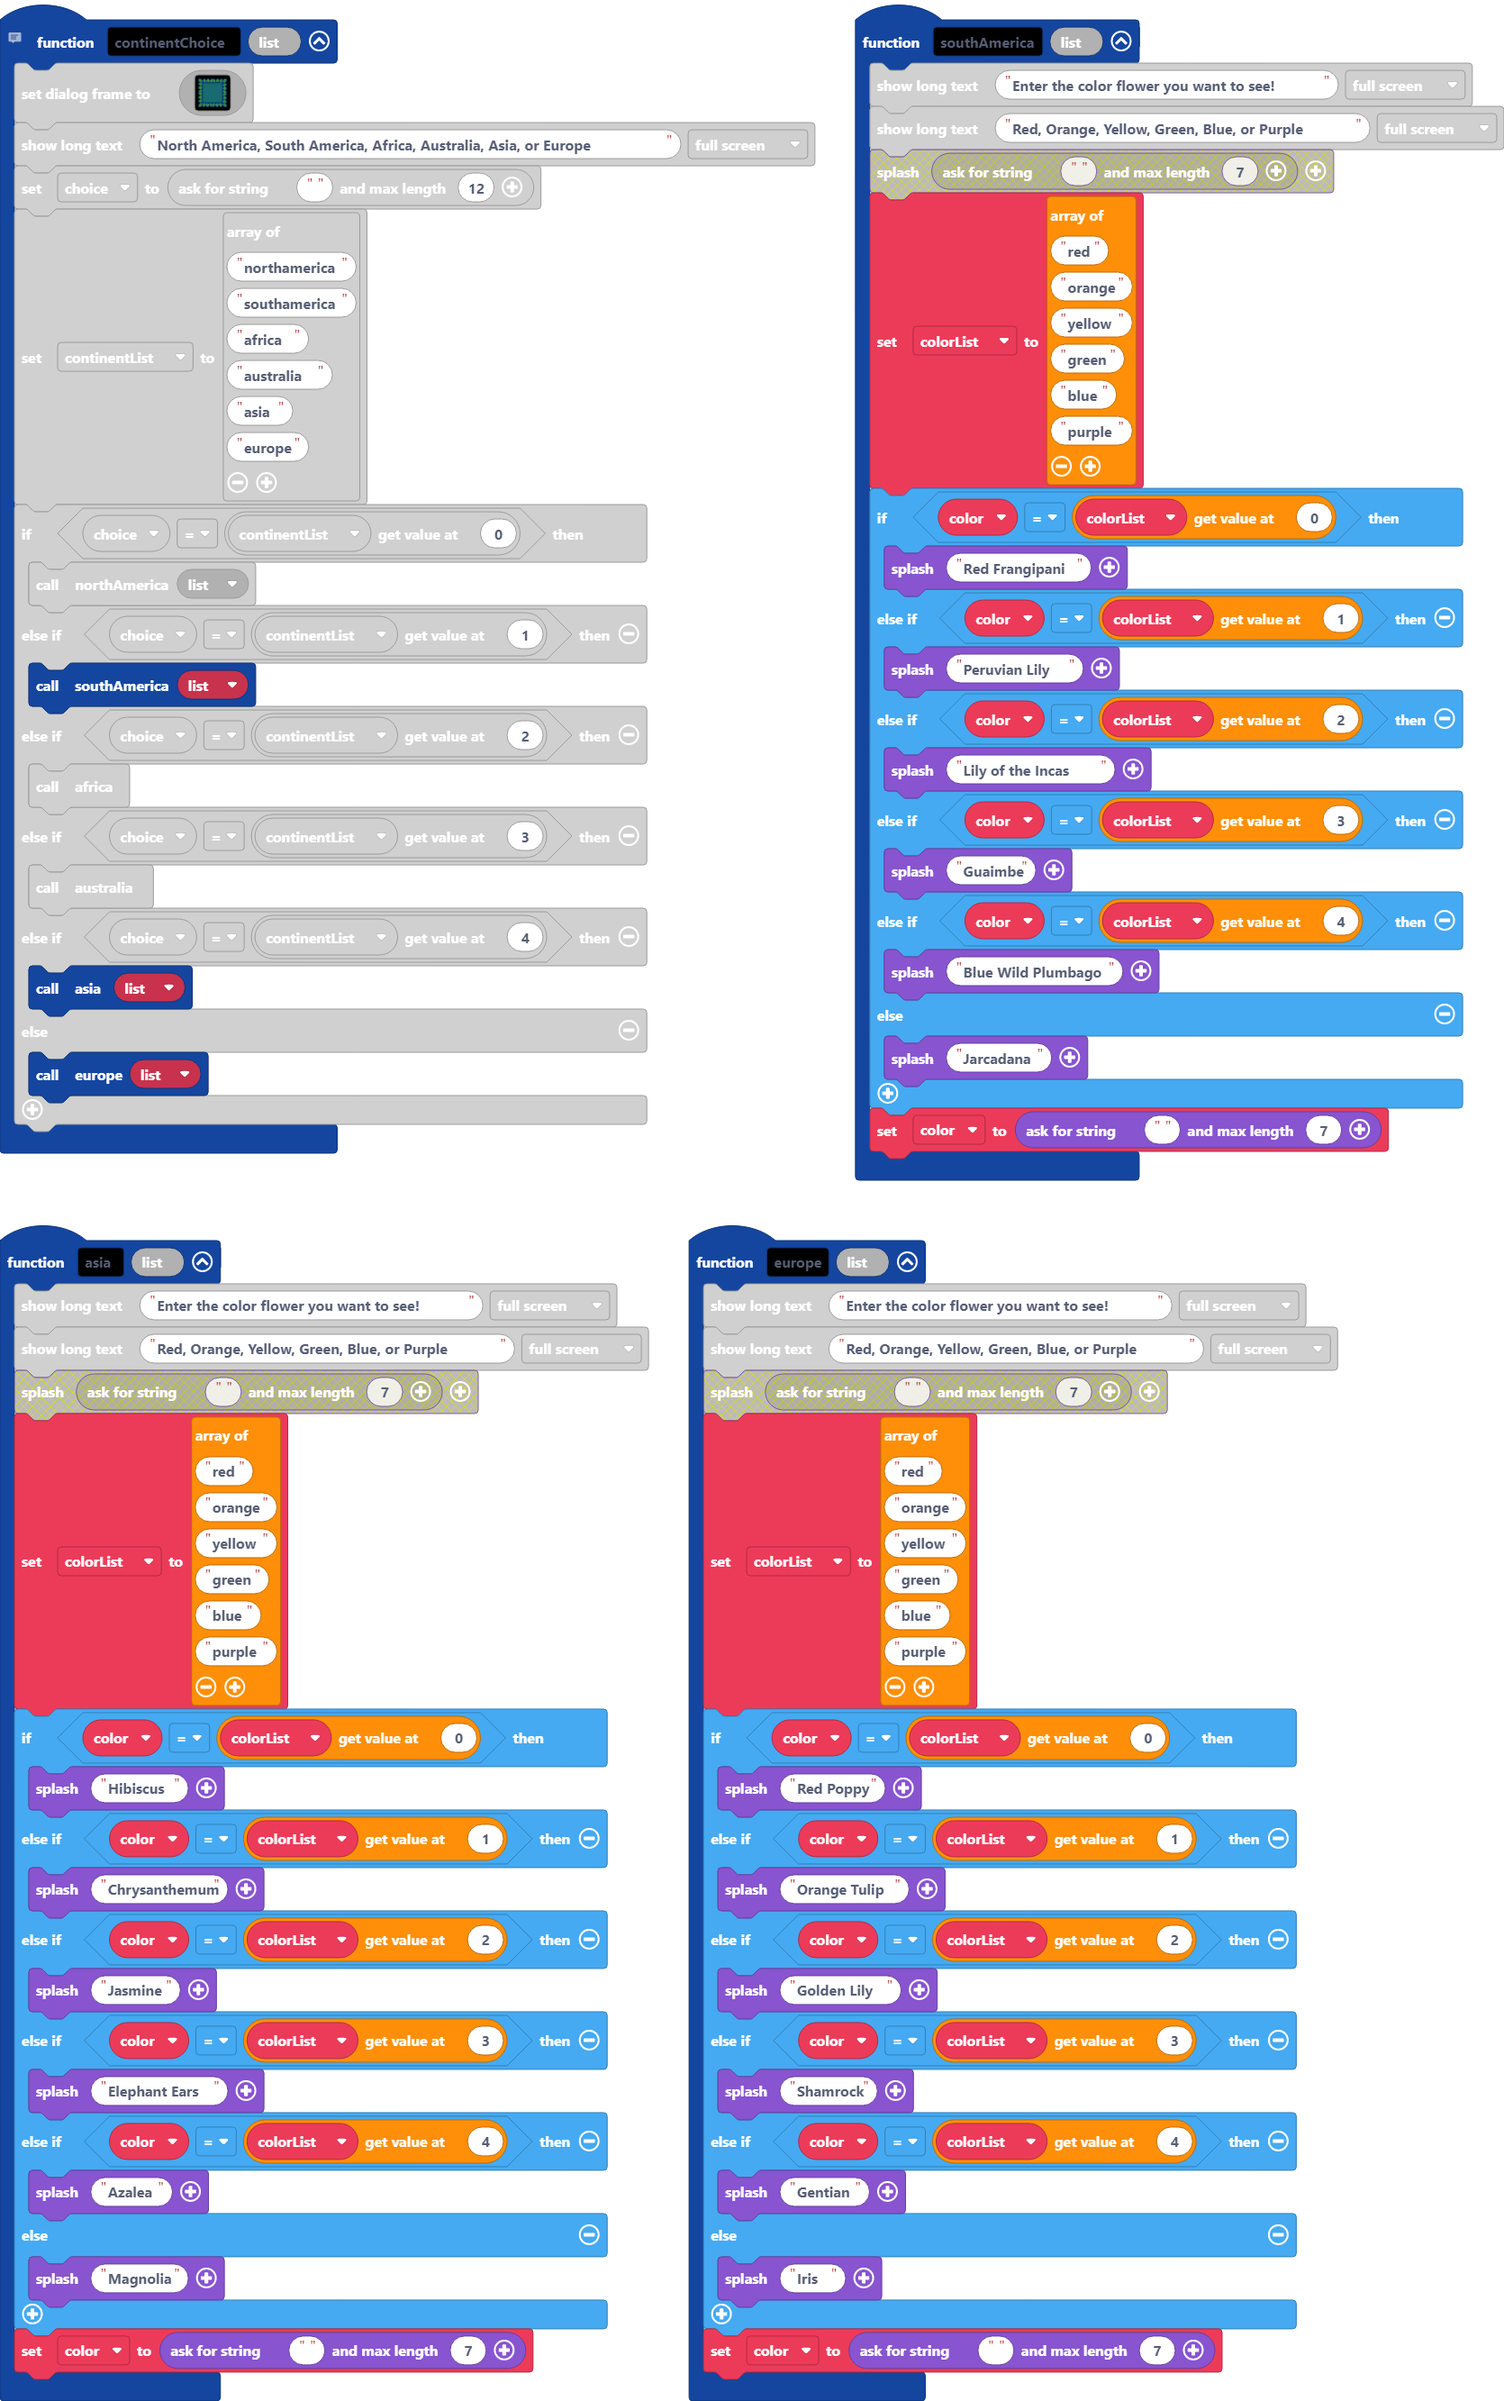
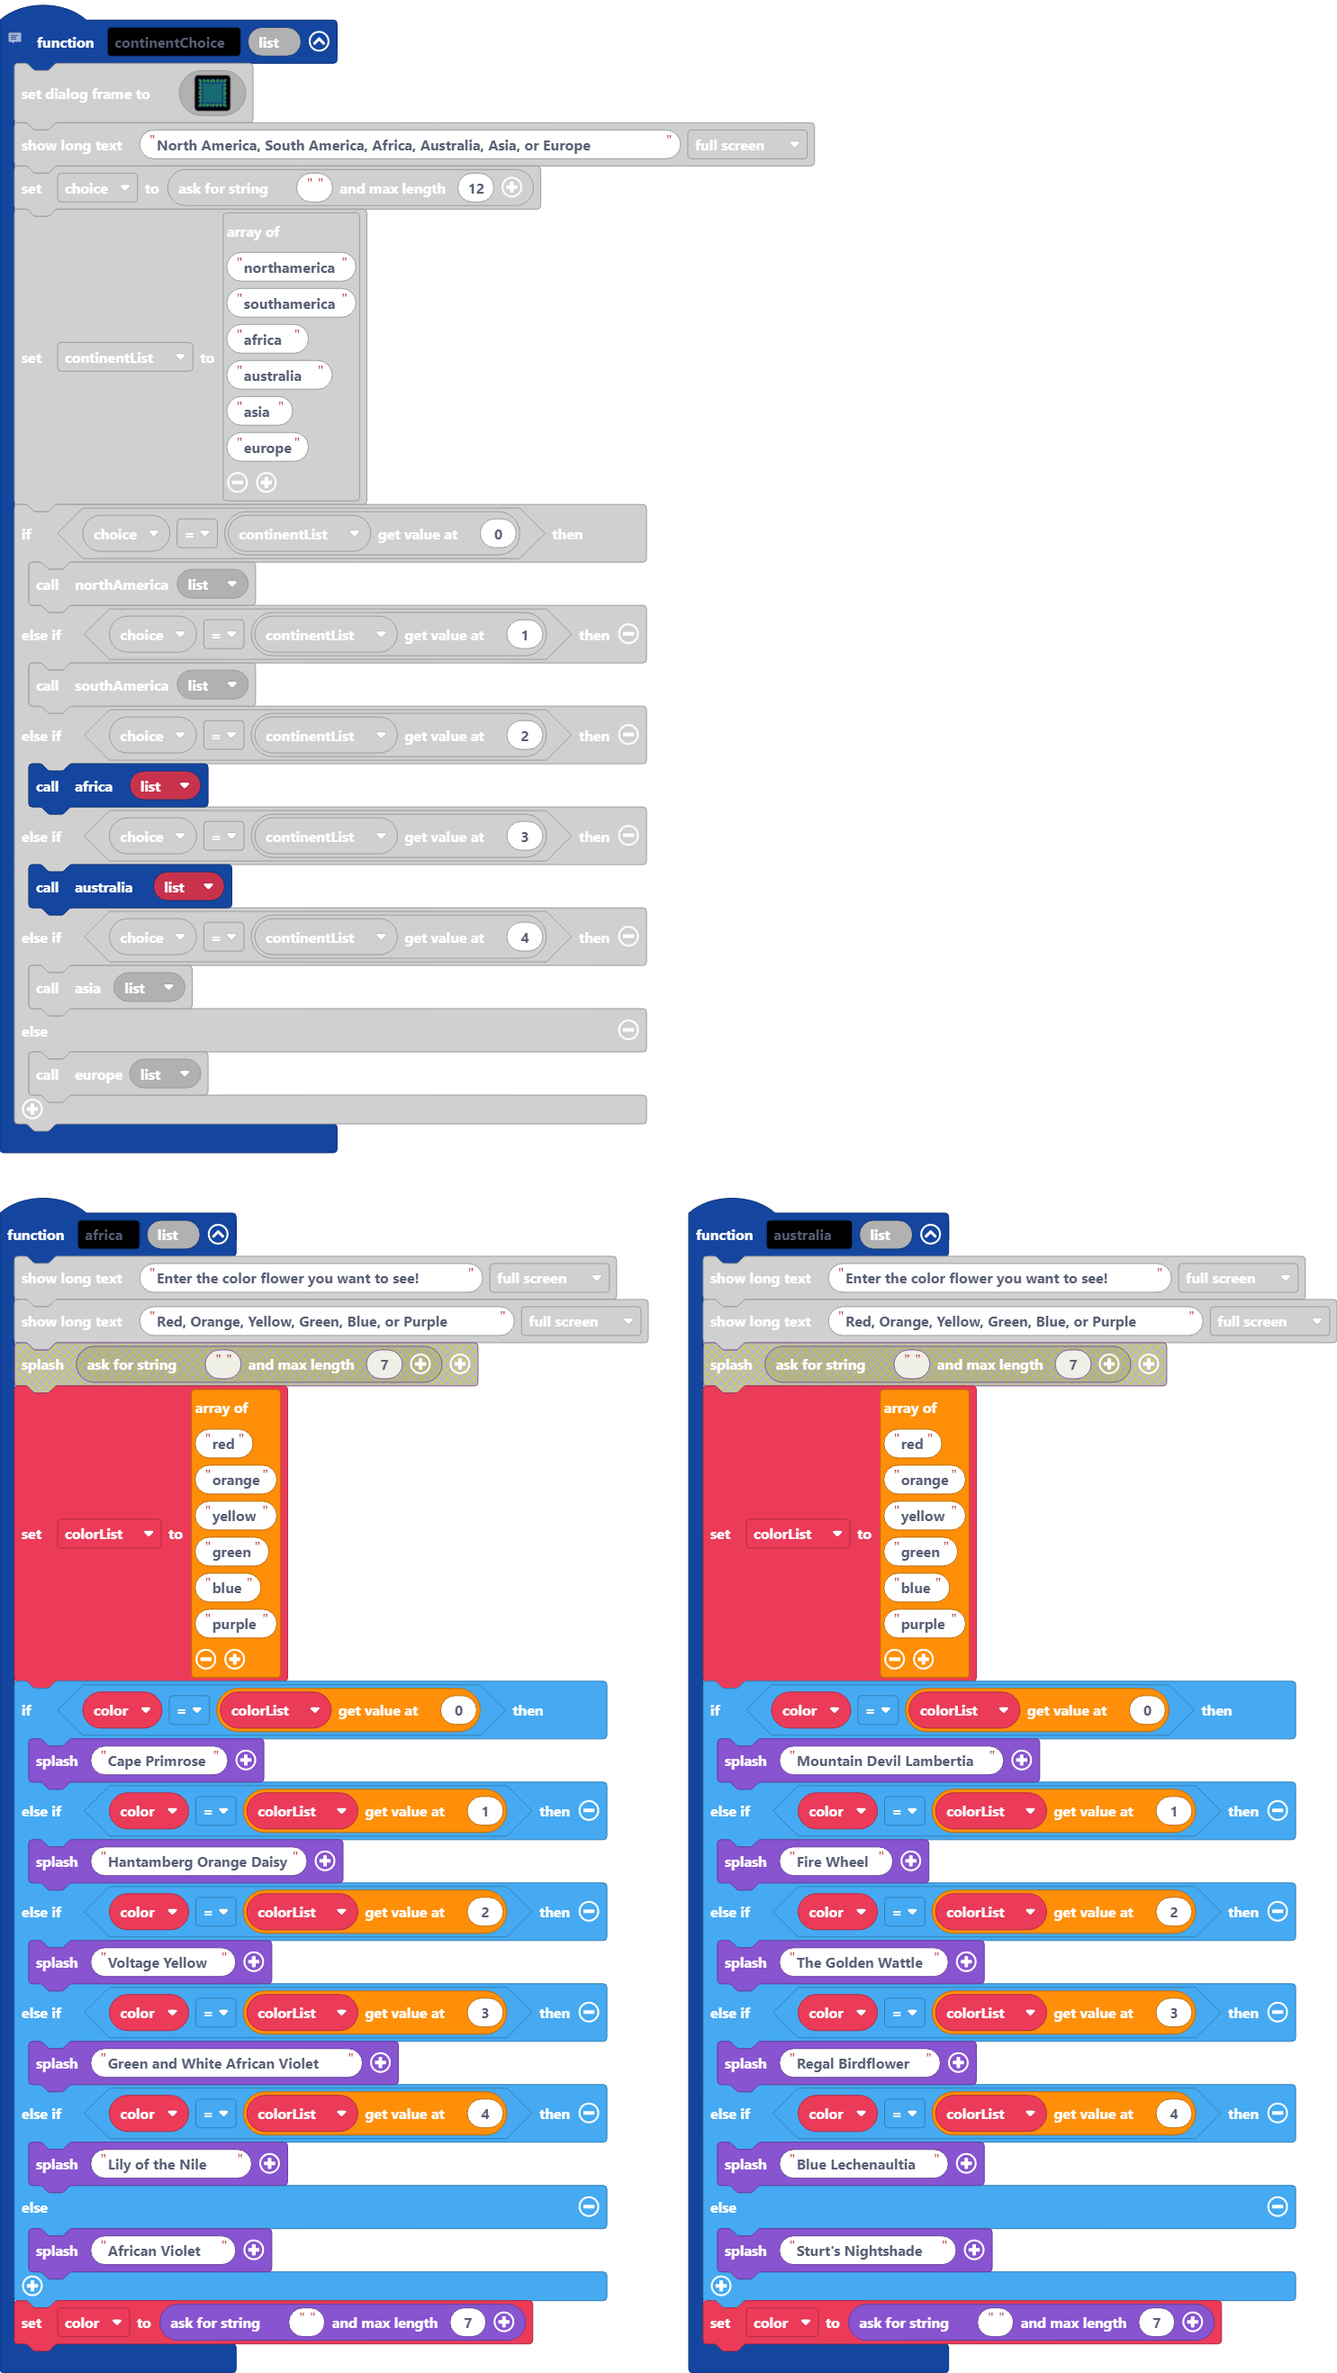
Update main.blocks, main.ts

diff --git a/main.ts b/main.ts
@@ -50,10 +50,10 @@ function northAmerica (list: any[]) {
         game.splash("Eastern Purple Cornflower")
     }
 }
-function australia () {
+function australia (list: any[]) {
     game.showLongText("Enter the color flower you want to see!", DialogLayout.Full)
     game.showLongText("Red, Orange, Yellow, Green, Blue, or Purple", DialogLayout.Full)
-    game.splash(game.askForString("", 7))
+    color = game.askForString("", 7)
     colorList = [
     "red",
     "orange",
@@ -62,15 +62,15 @@ function australia () {
     "blue",
     "purple"
     ]
-    if (index2 == list[0]) {
+    if (color == colorList[0]) {
         game.splash("Mountain Devil Lambertia")
-    } else if (index2 == list[1]) {
+    } else if (color == colorList[1]) {
         game.splash("Fire Wheel")
-    } else if (index2 == list[2]) {
+    } else if (color == colorList[2]) {
         game.splash("The Golden Wattle")
-    } else if (index2 == list[3]) {
+    } else if (color == colorList[3]) {
         game.splash("Regal Birdflower")
-    } else if (index2 == list[4]) {
+    } else if (color == colorList[4]) {
         game.splash("Blue Lechenaultia")
     } else {
         game.splash("Sturt's Nightshade")
@@ -128,10 +128,10 @@ function southAmerica (list: any[]) {
         game.splash("Jarcadana")
     }
 }
-function africa () {
+function africa (list: any[]) {
     game.showLongText("Enter the color flower you want to see!", DialogLayout.Full)
     game.showLongText("Red, Orange, Yellow, Green, Blue, or Purple", DialogLayout.Full)
-    game.splash(game.askForString("", 7))
+    color = game.askForString("", 7)
     colorList = [
     "red",
     "orange",
@@ -140,15 +140,15 @@ function africa () {
     "blue",
     "purple"
     ]
-    if (index2 == list[0]) {
+    if (color == colorList[0]) {
         game.splash("Cape Primrose")
-    } else if (index2 == list[1]) {
-        game.splash("Hantamberg orange African Daisy")
-    } else if (index2 == list[2]) {
+    } else if (color == colorList[1]) {
+        game.splash("Hantamberg Orange Daisy")
+    } else if (color == colorList[2]) {
         game.splash("Voltage Yellow")
-    } else if (index2 == list[3]) {
+    } else if (color == colorList[3]) {
         game.splash("Green and White African Violet")
-    } else if (index2 == list[4]) {
+    } else if (color == colorList[4]) {
         game.splash("Lily of the Nile")
     } else {
         game.splash("African Violet")
@@ -221,9 +221,9 @@ function continentChoice (list: any[]) {
     } else if (choice == continentList[1]) {
         southAmerica(list)
     } else if (choice == continentList[2]) {
-        africa()
+        africa(list)
     } else if (choice == continentList[3]) {
-        australia()
+        australia(list)
     } else if (choice == continentList[4]) {
         asia(list)
     } else {
@@ -232,7 +232,6 @@ function continentChoice (list: any[]) {
 }
 let continentList: string[] = []
 let choice = ""
-let index2 = 0
 let colorList: string[] = []
 let color = ""
 let list: number[] = []
